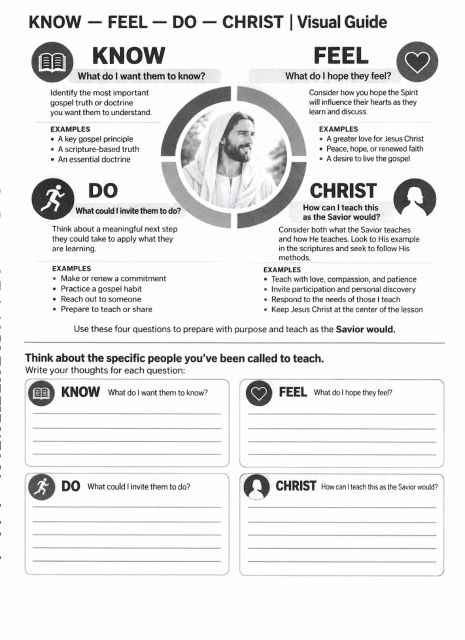
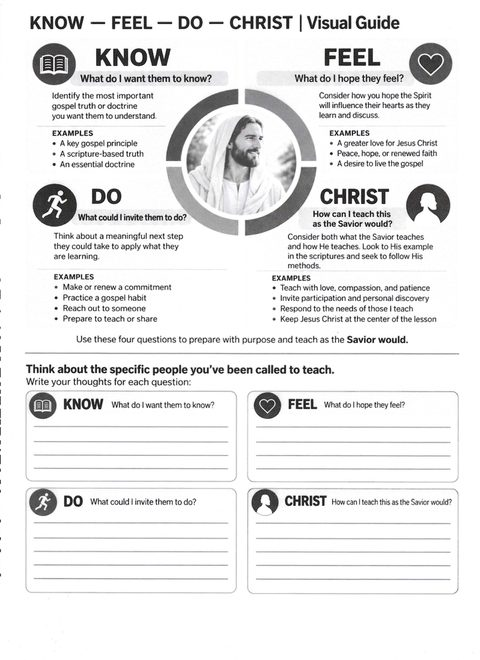
Sunday School: publish the Teacher Training handout titles and October preview.
The October and November PDFs were already on main. This keeps main's
November preview, Classroom schedule, Sign-Ups placement, and home page,
and uses the approved handout titles with a Resources link.

diff --git a/orgs/sunday-school/index.html b/orgs/sunday-school/index.html
@@ -39,13 +39,17 @@
   .pc .txt { margin:0; padding:8px 14px; font-size:14px; border-radius:10px; } .pc .gap { color:#8a6d22; font-style:italic; }
 h2.ih{display:flex;align-items:center;gap:10px} h2.ih .badge{flex:0 0 40px;width:40px;height:40px}
   .pc .txtall { display:flex; align-items:center; justify-content:center; gap:8px; min-height:48px; margin:12px 0 2px; font-size:16px; }
+  .sched { margin-top:4px; }
+  .sched li { padding:10px 0; }
   .sched li b { display:block; font-size:15px; }
   .sched li span { display:block; font-size:13.5px; margin-top:2px; }
   .nlcard { display:flex; gap:14px; align-items:flex-start; padding:12px 0; border-top:1px solid var(--line); }
   .nlcard .thumb { flex:0 0 96px; }
   .nlcard .thumb img { width:96px; height:124px; object-fit:cover; object-position:top; border-radius:10px; border:1px solid var(--line); display:block; box-shadow:0 2px 8px rgba(0,0,0,.08); }
   .nlcard .tx { flex:1; min-width:0; }
-  .nlcard .tx b { display:block; font-size:16px; line-height:1.25; margin-bottom:8px; }
+  .nlcard .tx b { display:block; font-size:16px; line-height:1.25; }
+  .nlcard .tx small { display:block; color:var(--soft); font-size:13px; margin:3px 0 8px; }
+  #teacher-training { scroll-margin-top:78px; }
 </style><script src="../../nav.js" defer></script></head><body>
 <header>
   <a class="back" href="../../">‹ The Bay 6 Hub</a>
@@ -72,31 +76,33 @@ h2.ih{display:flex;align-items:center;gap:10px} h2.ih .badge{flex:0 0 40px;width
   <section><h2 class="ih"><svg class="badge" viewBox="0 0 120 120" role="img" aria-label="Sign-up clipboard"><circle cx="60" cy="60" r="57" fill="#005175"/><circle cx="60" cy="60" r="51" fill="none" stroke="#c9a24a" stroke-width="2"/><rect x="34" y="30" width="52" height="62" rx="6" fill="#f3d98b" stroke="#c9a24a" stroke-width="2.4"/><rect x="48" y="24" width="24" height="12" rx="4" fill="#c9a24a"/><path d="M44 52l4 4 7-8M44 68l4 4 7-8" stroke="#005175" stroke-width="3" fill="none" stroke-linecap="round" stroke-linejoin="round"/><path d="M62 52h16M62 68h16M44 82h34" stroke="#005175" stroke-width="2.6" stroke-linecap="round"/></svg>Sign-Ups</h2>
     <p class="note">Service, meals, rides, and assignments sign-up links will go here.</p><span class="btn off">[Sign-up link]</span></section>
   <section id="teacher-training"><h2 class="ih"><svg class="badge" viewBox="0 0 120 120" role="img" aria-label="Teacher training"><circle cx="60" cy="60" r="57" fill="#005175"/><circle cx="60" cy="60" r="51" fill="none" stroke="#c9a24a" stroke-width="2"/><rect x="28" y="34" width="64" height="44" rx="6" fill="#f3d98b" stroke="#c9a24a" stroke-width="2.4"/><path d="M40 50h40M40 62h28" stroke="#005175" stroke-width="3" stroke-linecap="round"/><path d="M48 78h24" stroke="#c9a24a" stroke-width="4" stroke-linecap="round"/></svg>Teacher Training</h2>
-    <p class="note">Teacher training classes are held the 2nd Sunday of each month.</p>
+    <p class="note">Teacher training is held the 2nd Sunday of every month. Electronic copies of the October and November handouts are below.</p>
     <p class="when" id="next-training" hidden></p>
     <ul class="sched">
       <li><b>Classroom 101</b><span>Junior Primary at 1:05 PM, then Senior Primary at 1:35 PM</span></li>
       <li><b>Classroom 106</b><span>Young Men and Young Women at 1:05 PM, then Sunday School at 1:35 PM</span></li>
       <li><b>Classroom 117</b><span>Elders Quorum and Relief Society at 1:05 PM</span></li>
     </ul>
-    <p class="note" style="margin-top:12px">Handouts will be added as each month’s training happens.</p>
     <div class="nlcard">
-      <a class="thumb" href="training/2026-10-know-feel-do-christ.pdf"><img src="training/2026-10-know-feel-do-christ-preview.jpg" alt="Preview: Lesson 1: Know, Feel, Do — Christ (October)" loading="lazy"></a>
+      <a class="thumb" href="training/2026-10-know-feel-do-christ.pdf"><img src="training/2026-10-know-feel-do-christ-preview.jpg" alt="Preview of Lesson 1: Know — Feel — Do — Christ" loading="lazy"></a>
       <div class="tx">
-        <b>Lesson 1: Know, Feel, Do — Christ (October)</b>
+        <b>Lesson 1: Know — Feel — Do — Christ</b>
+        <small>October Handout · Visual Guide</small>
         <div class="acts"><a class="btn" href="training/2026-10-know-feel-do-christ.pdf" aria-label="View Lesson 1">View</a> <a class="btn alt" href="training/2026-10-know-feel-do-christ.pdf" download="Lesson-1-Know-Feel-Do-Christ.pdf" aria-label="Download Lesson 1">Download</a></div>
       </div>
     </div>
     <div class="nlcard">
-      <a class="thumb" href="training/2026-11-first-five-minutes.pdf"><img src="training/2026-11-first-five-minutes-preview.jpg" alt="Preview: Lesson 2: First Five Minutes Preparation Worksheet (November)" loading="lazy"></a>
+      <a class="thumb" href="training/2026-11-first-five-minutes.pdf"><img src="training/2026-11-first-five-minutes-preview.jpg" alt="Preview of Lesson 2: The First Five Minutes Matter" loading="lazy"></a>
       <div class="tx">
-        <b>Lesson 2: First Five Minutes Preparation Worksheet (November)</b>
-        <div class="acts"><a class="btn" href="training/2026-11-first-five-minutes.pdf" aria-label="View Lesson 2">View</a> <a class="btn alt" href="training/2026-11-first-five-minutes.pdf" download="Lesson-2-First-Five-Minutes.pdf" aria-label="Download Lesson 2">Download</a></div>
+        <b>Lesson 2: The First Five Minutes Matter</b>
+        <small>November Handout · Preparation Worksheet</small>
+        <div class="acts"><a class="btn" href="training/2026-11-first-five-minutes.pdf" aria-label="View Lesson 2">View</a> <a class="btn alt" href="training/2026-11-first-five-minutes.pdf" download="Lesson-2-The-First-Five-Minutes-Matter.pdf" aria-label="Download Lesson 2">Download</a></div>
       </div>
     </div>
   </section>
   <section><h2 class="ih"><svg class="badge" viewBox="0 0 120 120" role="img" aria-label="Open book"><circle cx="60" cy="60" r="57" fill="#005175"/><circle cx="60" cy="60" r="51" fill="none" stroke="#c9a24a" stroke-width="2"/><path d="M60 38c-10-6-22-7-34-5v48c12-2 24-1 34 5 10-6 22-7 34-5V33c-12-2-24-1-34 5z" fill="#f3d98b" stroke="#c9a24a" stroke-width="2.4" stroke-linejoin="round"/><path d="M60 38v48" stroke="#c9a24a" stroke-width="2.4"/><path d="M34 46c6-1 12 0 18 2M34 56c6-1 12 0 18 2M68 48c6-2 12-3 18-2M68 58c6-2 12-3 18-2" stroke="#005175" stroke-width="2.2" stroke-linecap="round"/></svg>Resources</h2>
     <a class="res" href="https://www.churchofjesuschrist.org/study/manual/general-handbook/13-sunday-school?lang=eng" rel="noopener">General Handbook: Sunday School ›</a>
+    <a class="res" href="#teacher-training">Sunday School Teacher Training ›</a>
     <a class="res" href="https://www.churchofjesuschrist.org/calendar" rel="noopener">Ward Calendar ›</a></section>
 </main>
 <footer>This is not an official website of The Church of Jesus Christ of Latter-day Saints.</footer>
